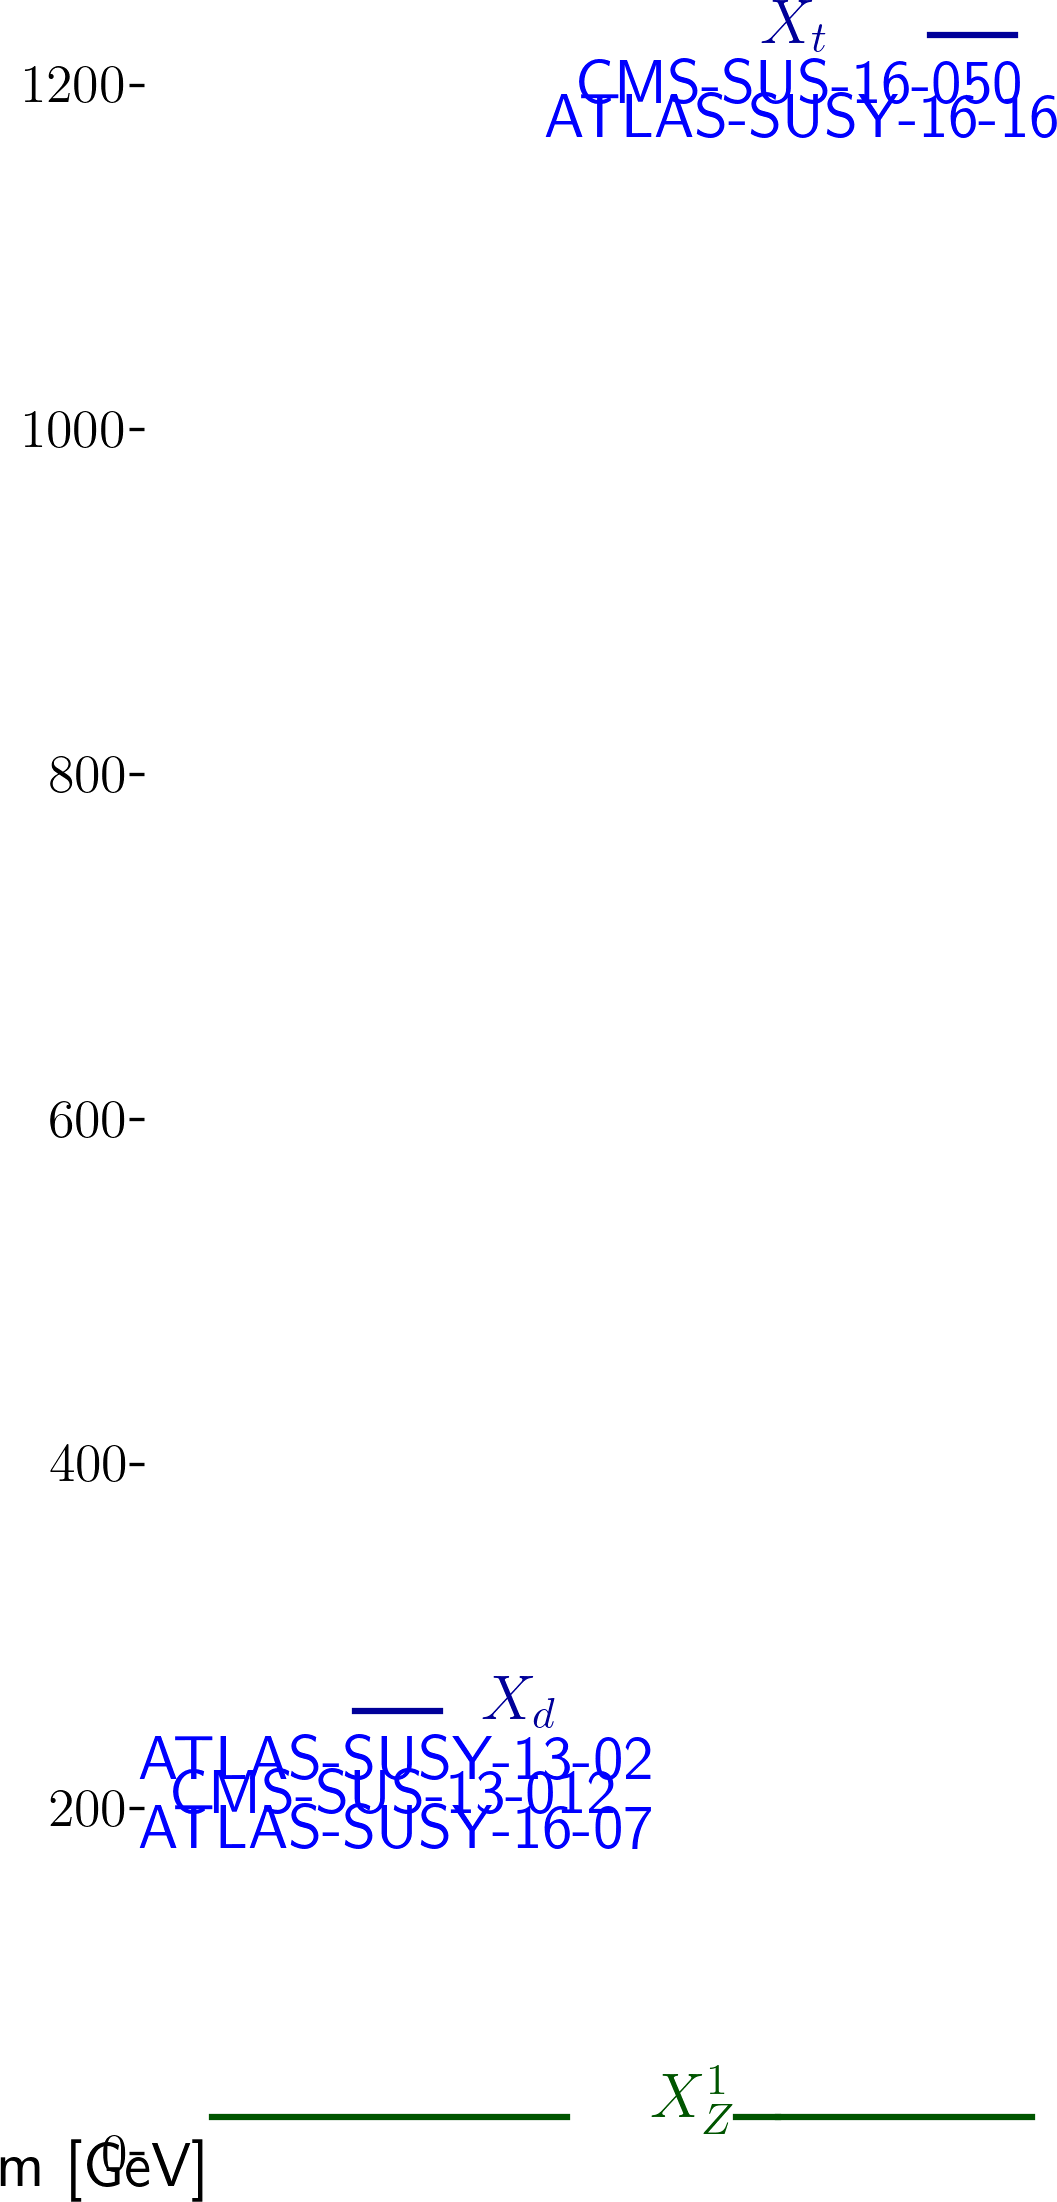
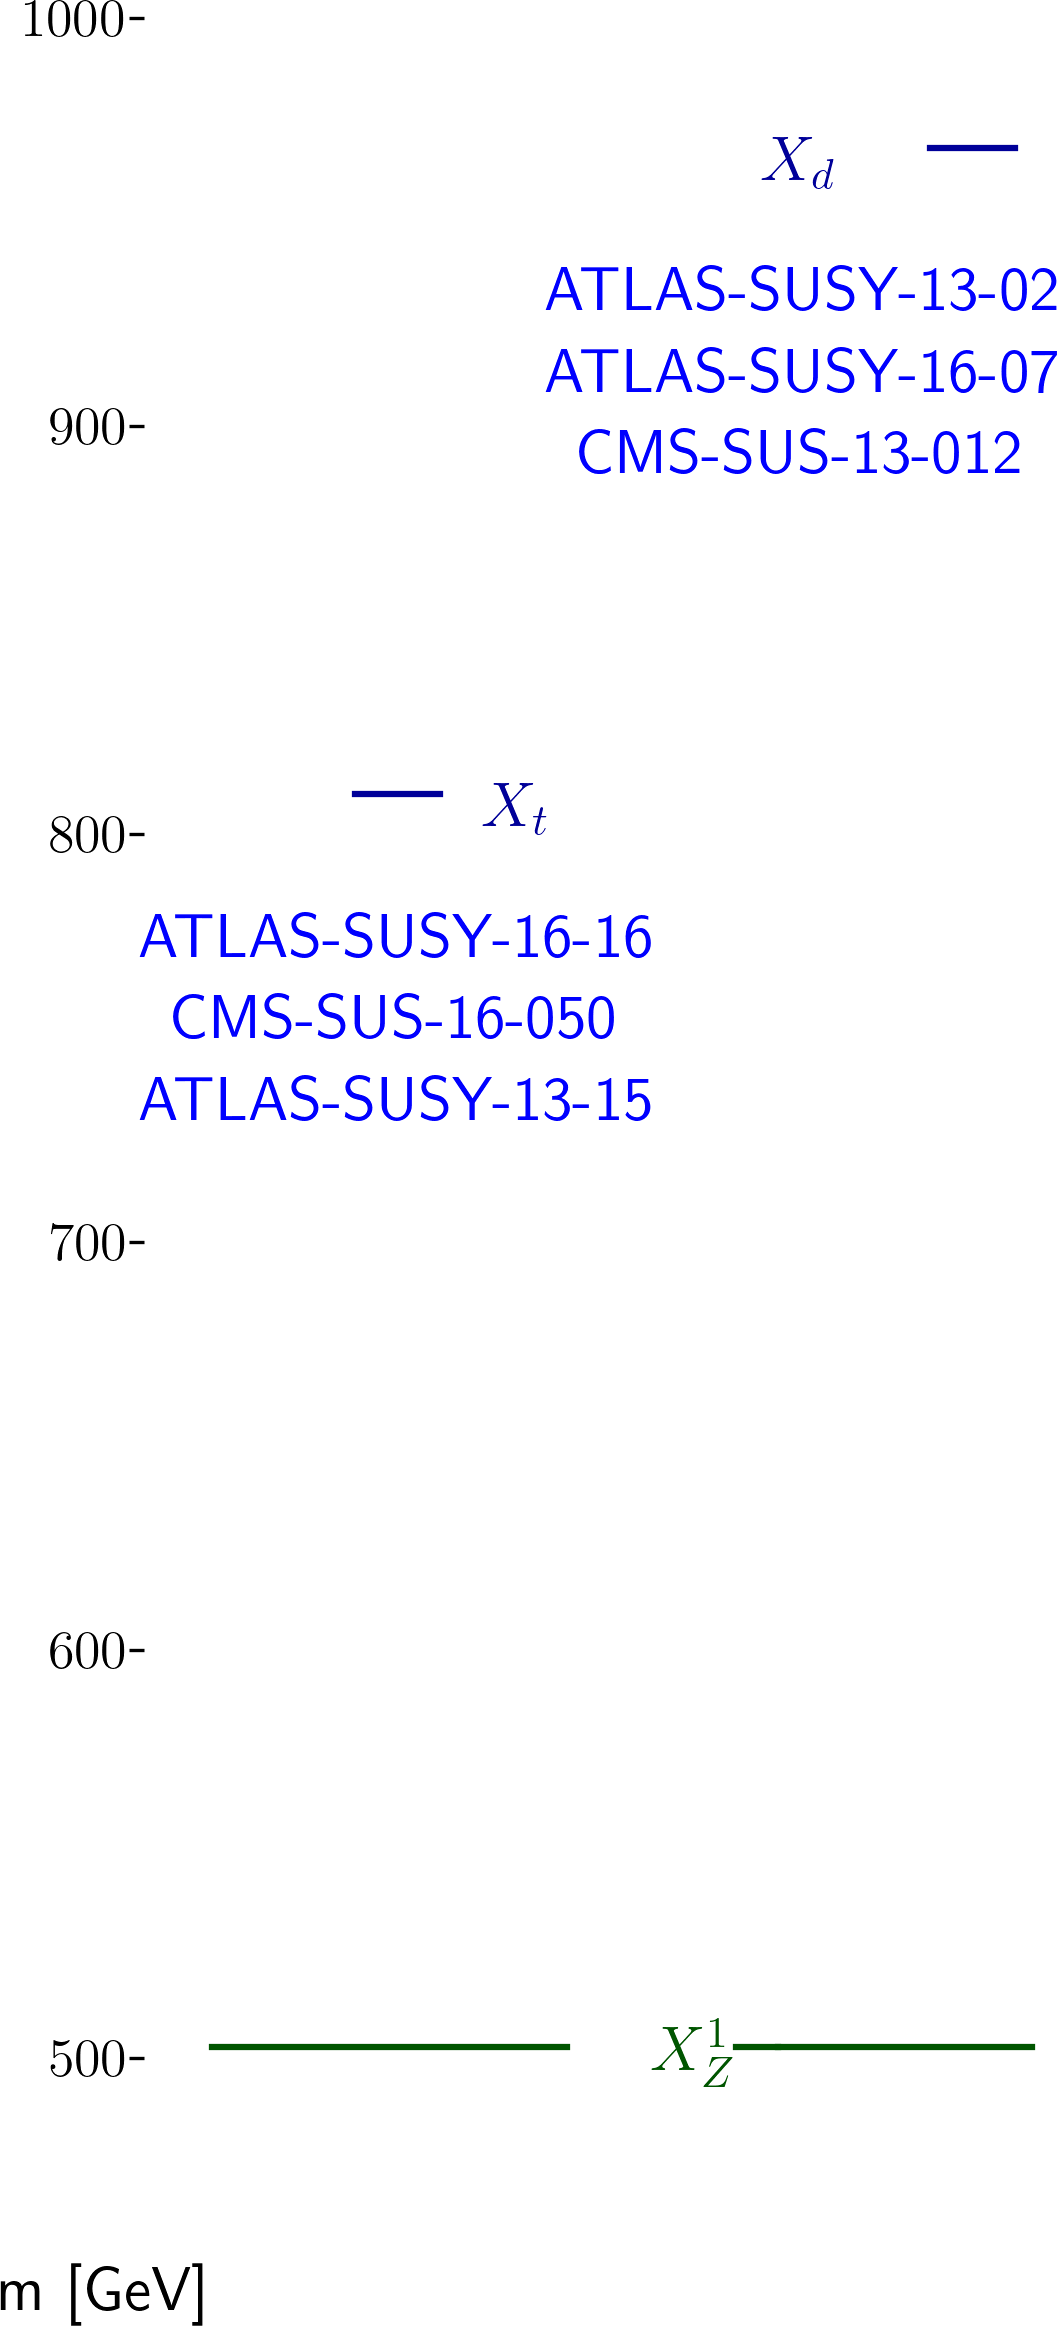
automated update by plotHiscore.py

diff --git a/protomodels/latest/index.html b/protomodels/latest/index.html
@@ -1,30 +1,31 @@
 <html>
 <body>
 <center>
-<table><td><h1>Current best protomodel: K=7.16</h1><td><img height=60px src=https://smodels.github.io/pics/banner.png></table>
+<table><td><h1>Current best protomodel: K=7.26</h1><td><img height=60px src=https://smodels.github.io/pics/banner.png></table>
 </center>
-<b><a href=./hiscore.slha>ProtoModel</a> <a href=./pmodel.py>(dict)</a> produced with <a href=https://smodels.github.io/docs/Validation124>database v1.2.4</a>, combination strategy <a href=./matrix_aggressive.png>aggressive</a> in walker 49 step 515.</b> K plots for: <a href=./M1000022.png?8020819>X<sub>Z</sub><sup>1</sup></a>, <a href=./M1000006.png?8020819>X<sub>t</sub></a>, <a href=./M1000001.png?8020819>X<sub>d</sub></a>. HPD plots for: <a href=./llhd1000006.png?8020819>X<sub>t</sub></a>, <a href=./llhd1000001.png?8020819>X<sub>d</sub></a>. SSM plots for: <a href=./ssm_-1000006_1000006.png?8020819>(x&#772;<sub>t</sub>,X<sub>t</sub>)</a><br>
+<b><a href=./hiscore.slha>ProtoModel</a> <a href=./pmodel.py>(dict)</a> produced with <a href=https://smodels.github.io/docs/Validation124>database v1.2.4</a>, combination strategy <a href=./matrix_aggressive.png>aggressive</a> in walker 8 step 505.</b> K plots for: <a href=./M1000022.png?8020826>X<sub>Z</sub><sup>1</sup></a>, <a href=./M1000001.png?8020826>X<sub>d</sub></a>, <a href=./M1000006.png?8020826>X<sub>t</sub></a>. HPD plots for: <a href=./llhd1000001.png?8020826>X<sub>d</sub></a>, <a href=./llhd1000006.png?8020826>X<sub>t</sub></a>. SSM plots for: <a href=./ssm_-1000006_1000006.png?8020826>(x&#772;<sub>t</sub>,X<sub>t</sub>)</a><br>
 <table width=80%>
 <tr><td>
-<br><b>10 predictions available. Highest r values are:</b><br><ul>
-<li><a href=https://atlas.web.cern.ch/Atlas/GROUPS/PHYSICS/PAPERS/SUSY-2016-07/>ATLAS-SUSY-2016-07</a>:T2 r=1.30, r<sub>exp</sub>=1.54<br>
-<li><a href=https://atlas.web.cern.ch/Atlas/GROUPS/PHYSICS/PAPERS/SUSY-2013-02/>ATLAS-SUSY-2013-02</a>:T2 r=1.05, r<sub>exp</sub>=1.21<br>
-<li><a href=http://cms-results.web.cern.ch/cms-results/public-results/publications/SUS-19-006/index.html>CMS-SUS-19-006</a>:T2tt r=0.82, r<sub>exp</sub>=0.83<br>
-<li><a href=https://atlas.web.cern.ch/Atlas/GROUPS/PHYSICS/PAPERS/SUSY-2013-02/>ATLAS-SUSY-2013-02</a>:T2 r=0.53, r<sub>exp</sub>=N/A<br>
-<li><a href=https://twiki.cern.ch/twiki/bin/view/CMSPublic/PhysicsResultsSUS13012>CMS-SUS-13-012</a>:T2 r=0.49, r<sub>exp</sub>=0.65<br>
+<br><b>31 predictions available. Highest r values are:</b><br><ul>
+<li><a href=http://cms-results.web.cern.ch/cms-results/public-results/publications/SUS-19-006/index.html>CMS-SUS-19-006</a>:T2tt r=1.30, r<sub>exp</sub>=0.85<br>
+<li><a href=http://cms-results.web.cern.ch/cms-results/public-results/publications/SUS-19-006/index.html>CMS-SUS-19-006</a>:T2 r=1.25, r<sub>exp</sub>=1.11<br>
+<li><a href=http://cms-results.web.cern.ch/cms-results/public-results/publications/SUS-16-033/index.html>CMS-SUS-16-033</a>:T2 r=1.14, r<sub>exp</sub>=0.82<br>
+<li><a href=http://cms-results.web.cern.ch/cms-results/public-results/publications/SUS-16-049/index.html>CMS-SUS-16-049</a>:T2tt r=0.97, r<sub>exp</sub>=0.78<br>
+<li><a href=http://cms-results.web.cern.ch/cms-results/public-results/publications/SUS-16-036/index.html>CMS-SUS-16-036</a>:T2tt r=0.93, r<sub>exp</sub>=0.57<br>
 </ul>
 <td><br><b>K values without analyses: (contribution)</b><br>
 <ul>
-<li> <a href=http://cms-results.web.cern.ch/cms-results/public-results/publications/SUS-16-050/index.html>CMS-SUS-16-050</a>: 5.01 (11%)
-<li> <a href=https://atlas.web.cern.ch/Atlas/GROUPS/PHYSICS/PAPERS/SUSY-2013-02/>ATLAS-SUSY-2013-02</a>: 4.99 (11%)
-<li> <a href=https://twiki.cern.ch/twiki/bin/view/CMSPublic/PhysicsResultsSUS13012>CMS-SUS-13-012</a>: 3.79 (18%)
-<li> <a href=https://atlas.web.cern.ch/Atlas/GROUPS/PHYSICS/PAPERS/SUSY-2016-16/>ATLAS-SUSY-2016-16</a>: 2.36 (25%)
-<li> <a href=https://atlas.web.cern.ch/Atlas/GROUPS/PHYSICS/PAPERS/SUSY-2016-07/>ATLAS-SUSY-2016-07</a>: 0.42 (35%)
-<td><img width=600px src=./texdoc.png?1601020819>
-<br><font size=-1>Last updated: Fri Sep 25 10:00:19 2020</font>
+<li> <a href=https://twiki.cern.ch/twiki/bin/view/CMSPublic/PhysicsResultsSUS13012>CMS-SUS-13-012</a>: 3.54 (13%)
+<li> <a href=http://cms-results.web.cern.ch/cms-results/public-results/publications/SUS-16-050/index.html>CMS-SUS-16-050</a>: 3.54 (13%)
+<li> <a href=https://atlas.web.cern.ch/Atlas/GROUPS/PHYSICS/PAPERS/SUSY-2013-02/>ATLAS-SUSY-2013-02</a>: 3.47 (13%)
+<li> <a href=https://atlas.web.cern.ch/Atlas/GROUPS/PHYSICS/PAPERS/SUSY-2013-15/>ATLAS-SUSY-2013-15</a>: 3.11 (14%)
+<li> <a href=https://atlas.web.cern.ch/Atlas/GROUPS/PHYSICS/PAPERS/SUSY-2016-16/>ATLAS-SUSY-2016-16</a>: 1.66 (19%)
+<li> <a href=https://atlas.web.cern.ch/Atlas/GROUPS/PHYSICS/PAPERS/SUSY-2016-07/>ATLAS-SUSY-2016-07</a>: -1.01 (28%)
+<td><img width=600px src=./texdoc.png?1601020826>
+<br><font size=-1>Last updated: Fri Sep 25 10:00:26 2020</font>
 </table><table style="width:80%">
-<td width=45%><img height=580px src=./ruler.png?1601020819><td width=55%><img height=380px src=./decays.png?1601020819>
-<font size=-3><iframe type="text/html" height="220px" width="100%s" frameborder="0" src="./rawnumbers.html?1601020819"></iframe></font>
+<td width=45%><img height=580px src=./ruler.png?1601020826><td width=55%><img height=380px src=./decays.png?1601020826>
+<font size=-3><iframe type="text/html" height="220px" width="100%s" frameborder="0" src="./rawnumbers.html?1601020826"></iframe></font>
 </table>
 </body>
 </html>

diff --git a/protomodels/latest/rawnumbers.html b/protomodels/latest/rawnumbers.html
@@ -2,8 +2,9 @@
 <tr><th>Analysis Name</th><th>Type</th><th>Dataset</th><th>Topos</th><th>Observed</th><th>Expected</th><th>Approx &sigma;</th><th>Particles</th>
 </tr>
 <tr><td><a href=https://atlas.web.cern.ch/Atlas/GROUPS/PHYSICS/PAPERS/SUSY-2013-02/>ATLAS-SUSY-2013-02</a></td><td>em</td> <td>SR6jtp</td><td>T2</td><td>6</td><td>4.9 +/- 1.6</td><td style="text-align:right">0.4 &sigma;</td><td style="text-align:right">X<sub>d</sub></td></tr>
+<tr><td><a href=https://atlas.web.cern.ch/Atlas/GROUPS/PHYSICS/PAPERS/SUSY-2013-15/>ATLAS-SUSY-2013-15</a></td><td>em</td> <td>tNboost</td><td>T2tt</td><td>5</td><td>3.3 +/- 0.7</td><td style="text-align:right">0.9 &sigma;</td><td style="text-align:right">X<sub>t</sub></td></tr>
 <tr><td><a href=https://atlas.web.cern.ch/Atlas/GROUPS/PHYSICS/PAPERS/SUSY-2016-07/>ATLAS-SUSY-2016-07</a></td><td>em</td> <td>2j_Meff_1200</td><td>T2</td><td>611</td><td>526 +/- 31</td><td style="text-align:right">2.2 &sigma;</td><td style="text-align:right">X<sub>d</sub></td></tr>
-<tr><td><a href=https://atlas.web.cern.ch/Atlas/GROUPS/PHYSICS/PAPERS/SUSY-2016-16/>ATLAS-SUSY-2016-16</a></td><td>em</td> <td>tN_high</td><td>T2tt</td><td>8</td><td>3.8 +/- 1</td><td style="text-align:right">1.9 &sigma;</td><td style="text-align:right">X<sub>t</sub></td></tr>
-<tr><td><a href=https://twiki.cern.ch/twiki/bin/view/CMSPublic/PhysicsResultsSUS13012>CMS-SUS-13-012</a></td><td>em</td> <td>3NJet6_1000HT12 ...</td><td>T2</td><td>32</td><td>22.8 +/- 5.2</td><td style="text-align:right">1.3 &sigma;</td><td style="text-align:right">X<sub>d</sub></td></tr>
-<tr><td><a href=http://cms-results.web.cern.ch/cms-results/public-results/publications/SUS-16-050/index.html>CMS-SUS-16-050</a></td><td>ul</td> <td>-</td><td>T2tt</td><td> 4.3 fb </td><td> 2.4 fb</td><td style="text-align:right">1.6 &sigma;</td><td style="text-align:right">X<sub>t</sub></td></tr>
+<tr><td><a href=https://atlas.web.cern.ch/Atlas/GROUPS/PHYSICS/PAPERS/SUSY-2016-16/>ATLAS-SUSY-2016-16</a></td><td>em</td> <td>tN_med</td><td>T2tt</td><td>50</td><td>36.3 +/- 6.6</td><td style="text-align:right">1.5 &sigma;</td><td style="text-align:right">X<sub>t</sub></td></tr>
+<tr><td><a href=https://twiki.cern.ch/twiki/bin/view/CMSPublic/PhysicsResultsSUS13012>CMS-SUS-13-012</a></td><td>ul</td> <td>-</td><td>T2</td><td> 29.9 fb </td><td> 18.6 fb</td><td style="text-align:right">1.2 &sigma;</td><td style="text-align:right">X<sub>d</sub></td></tr>
+<tr><td><a href=http://cms-results.web.cern.ch/cms-results/public-results/publications/SUS-16-050/index.html>CMS-SUS-16-050</a></td><td>ul</td> <td>-</td><td>T2tt</td><td> 96.0 fb </td><td> 46.0 fb</td><td style="text-align:right">2.1 &sigma;</td><td style="text-align:right">X<sub>t</sub></td></tr>
 </table>

diff --git a/protomodels/latest/pmodel.py b/protomodels/latest/pmodel.py
@@ -1,1 +1,1 @@
-{'masses': {1000022: 11.0, 1000006: 1218.831, 1000001: 246.353}, 'ssmultipliers': {(1000022, 1000022): 0.0, (1000006, 1000006): 0.524, (-1000006, 1000006): 0.524, (-1000006, -1000006): 0.524, (1000006, 1000022): 0.342, (-1000006, 1000022): 0.551, (1000001, 1000001): 0.324, (-1000001, 1000001): 0.324, (-1000001, -1000001): 0.324, (1000001, 1000022): 0.324, (-1000001, 1000022): 0.324, (1000001, 1000006): 0.324, (-1000001, 1000006): 0.324, (-1000006, 1000001): 0.324, (-1000006, -1000001): 0.324}, 'decays': {1000022: {}, 1000006: {(1000022, 6): 1.0}, 1000001: {(1000022, 1): 1.0}}, 'timestamp': 'Fri Sep 25 10:00:10 2020', 'Z': 3.273, 'K': 7.161, 'step': 515, 'codever': '1.0', 'dbver': '1.2.4'}
+{'masses': {1000022: 492.856, 1000001: 958.189, 1000006: 799.786}, 'ssmultipliers': {(1000022, 1000022): 5.565, (1000001, 1000001): 2.391, (-1000001, 1000001): 2.391, (-1000001, -1000001): 2.391, (1000001, 1000022): 2.391, (-1000001, 1000022): 2.391, (1000006, 1000006): 0.949, (-1000006, 1000006): 0.949, (-1000006, -1000006): 0.949, (1000006, 1000022): 0.949, (-1000006, 1000022): 0.949, (1000001, 1000006): 0.949, (-1000006, 1000001): 0.949, (-1000001, 1000006): 0.949, (-1000006, -1000001): 0.949}, 'decays': {1000022: {}, 1000001: {(1000022, 1): 1.0}, 1000006: {(1000022, 6): 1.0}}, 'timestamp': 'Fri Sep 25 10:00:17 2020', 'Z': 3.288, 'K': 7.258, 'step': 505, 'codever': '1.0', 'dbver': '1.2.4'}
